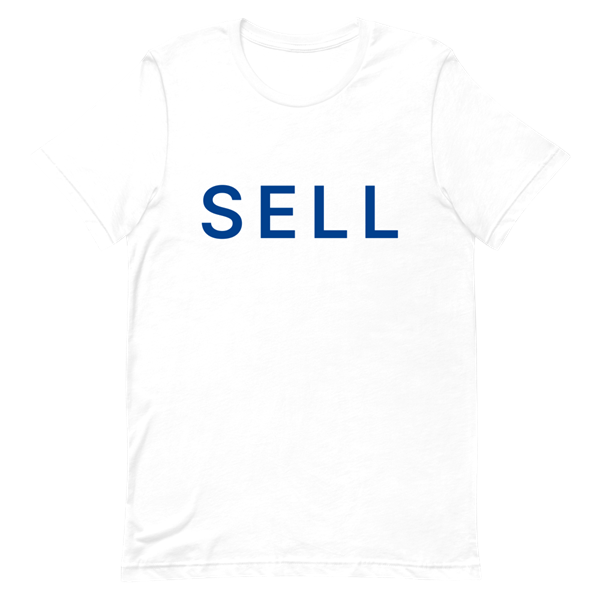
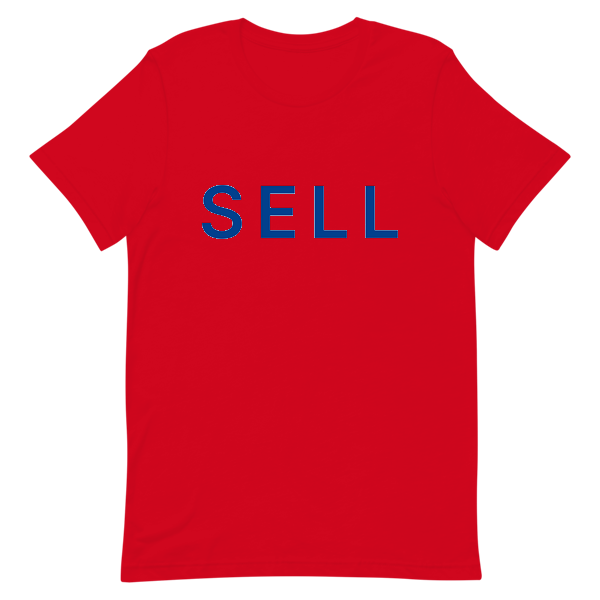
Set Buffalo alternate tee colors

diff --git a/lib/products.ts b/lib/products.ts
@@ -82,6 +82,7 @@ export function printColorName(team: Team, style: Style): string {
     if (original) return colorName(original, style);
   }
   if (style === "tee") {
+    if (team.slug === "nfl-buffalo") return "red";
     if (team.slug === "nfl-cincinnati" || team.slug === "nfl-pittsburgh") return "black";
     if (team.slug === "nfl-cleveland") return "orange";
     if (team.slug === "nfl-baltimore") return "metallic gold";
@@ -95,6 +96,7 @@ export function printColorHex(team: Team, style: Style): string {
     if (original) return colorHex(original, style);
   }
   const name = printColorName(team, style);
+  if (name === "red") return "#d0071e";
   if (name === "black") return "#000000";
   if (name === "orange") return "#FF3C00";
   if (name === "metallic gold") return "#C5A253";

diff --git a/lib/teams.ts b/lib/teams.ts
@@ -198,6 +198,7 @@ const BASE_TEAMS: Team[] = ROWS.map(([slug, division, market, nickname, city, sh
 // black, orange, and metallic-gold print colors.
 const ALTERNATE_TEE_BLANK: Record<string, string> = {
   "nfl-baltimore": "Gold",
+  "nfl-buffalo": "Red",
   "nfl-cincinnati": "Black",
   "nfl-cleveland": "Orange",
   "nfl-pittsburgh": "Black",

diff --git a/lib/art.ts b/lib/art.ts
@@ -1,4 +1,4 @@
 // Bump when the shirt artwork or photos change: Printful caches print files by
 // URL and next/image caches optimized photos by URL, so a new number makes
 // both fetch fresh copies.
-export const ART_VERSION = 20;
+export const ART_VERSION = 21;
